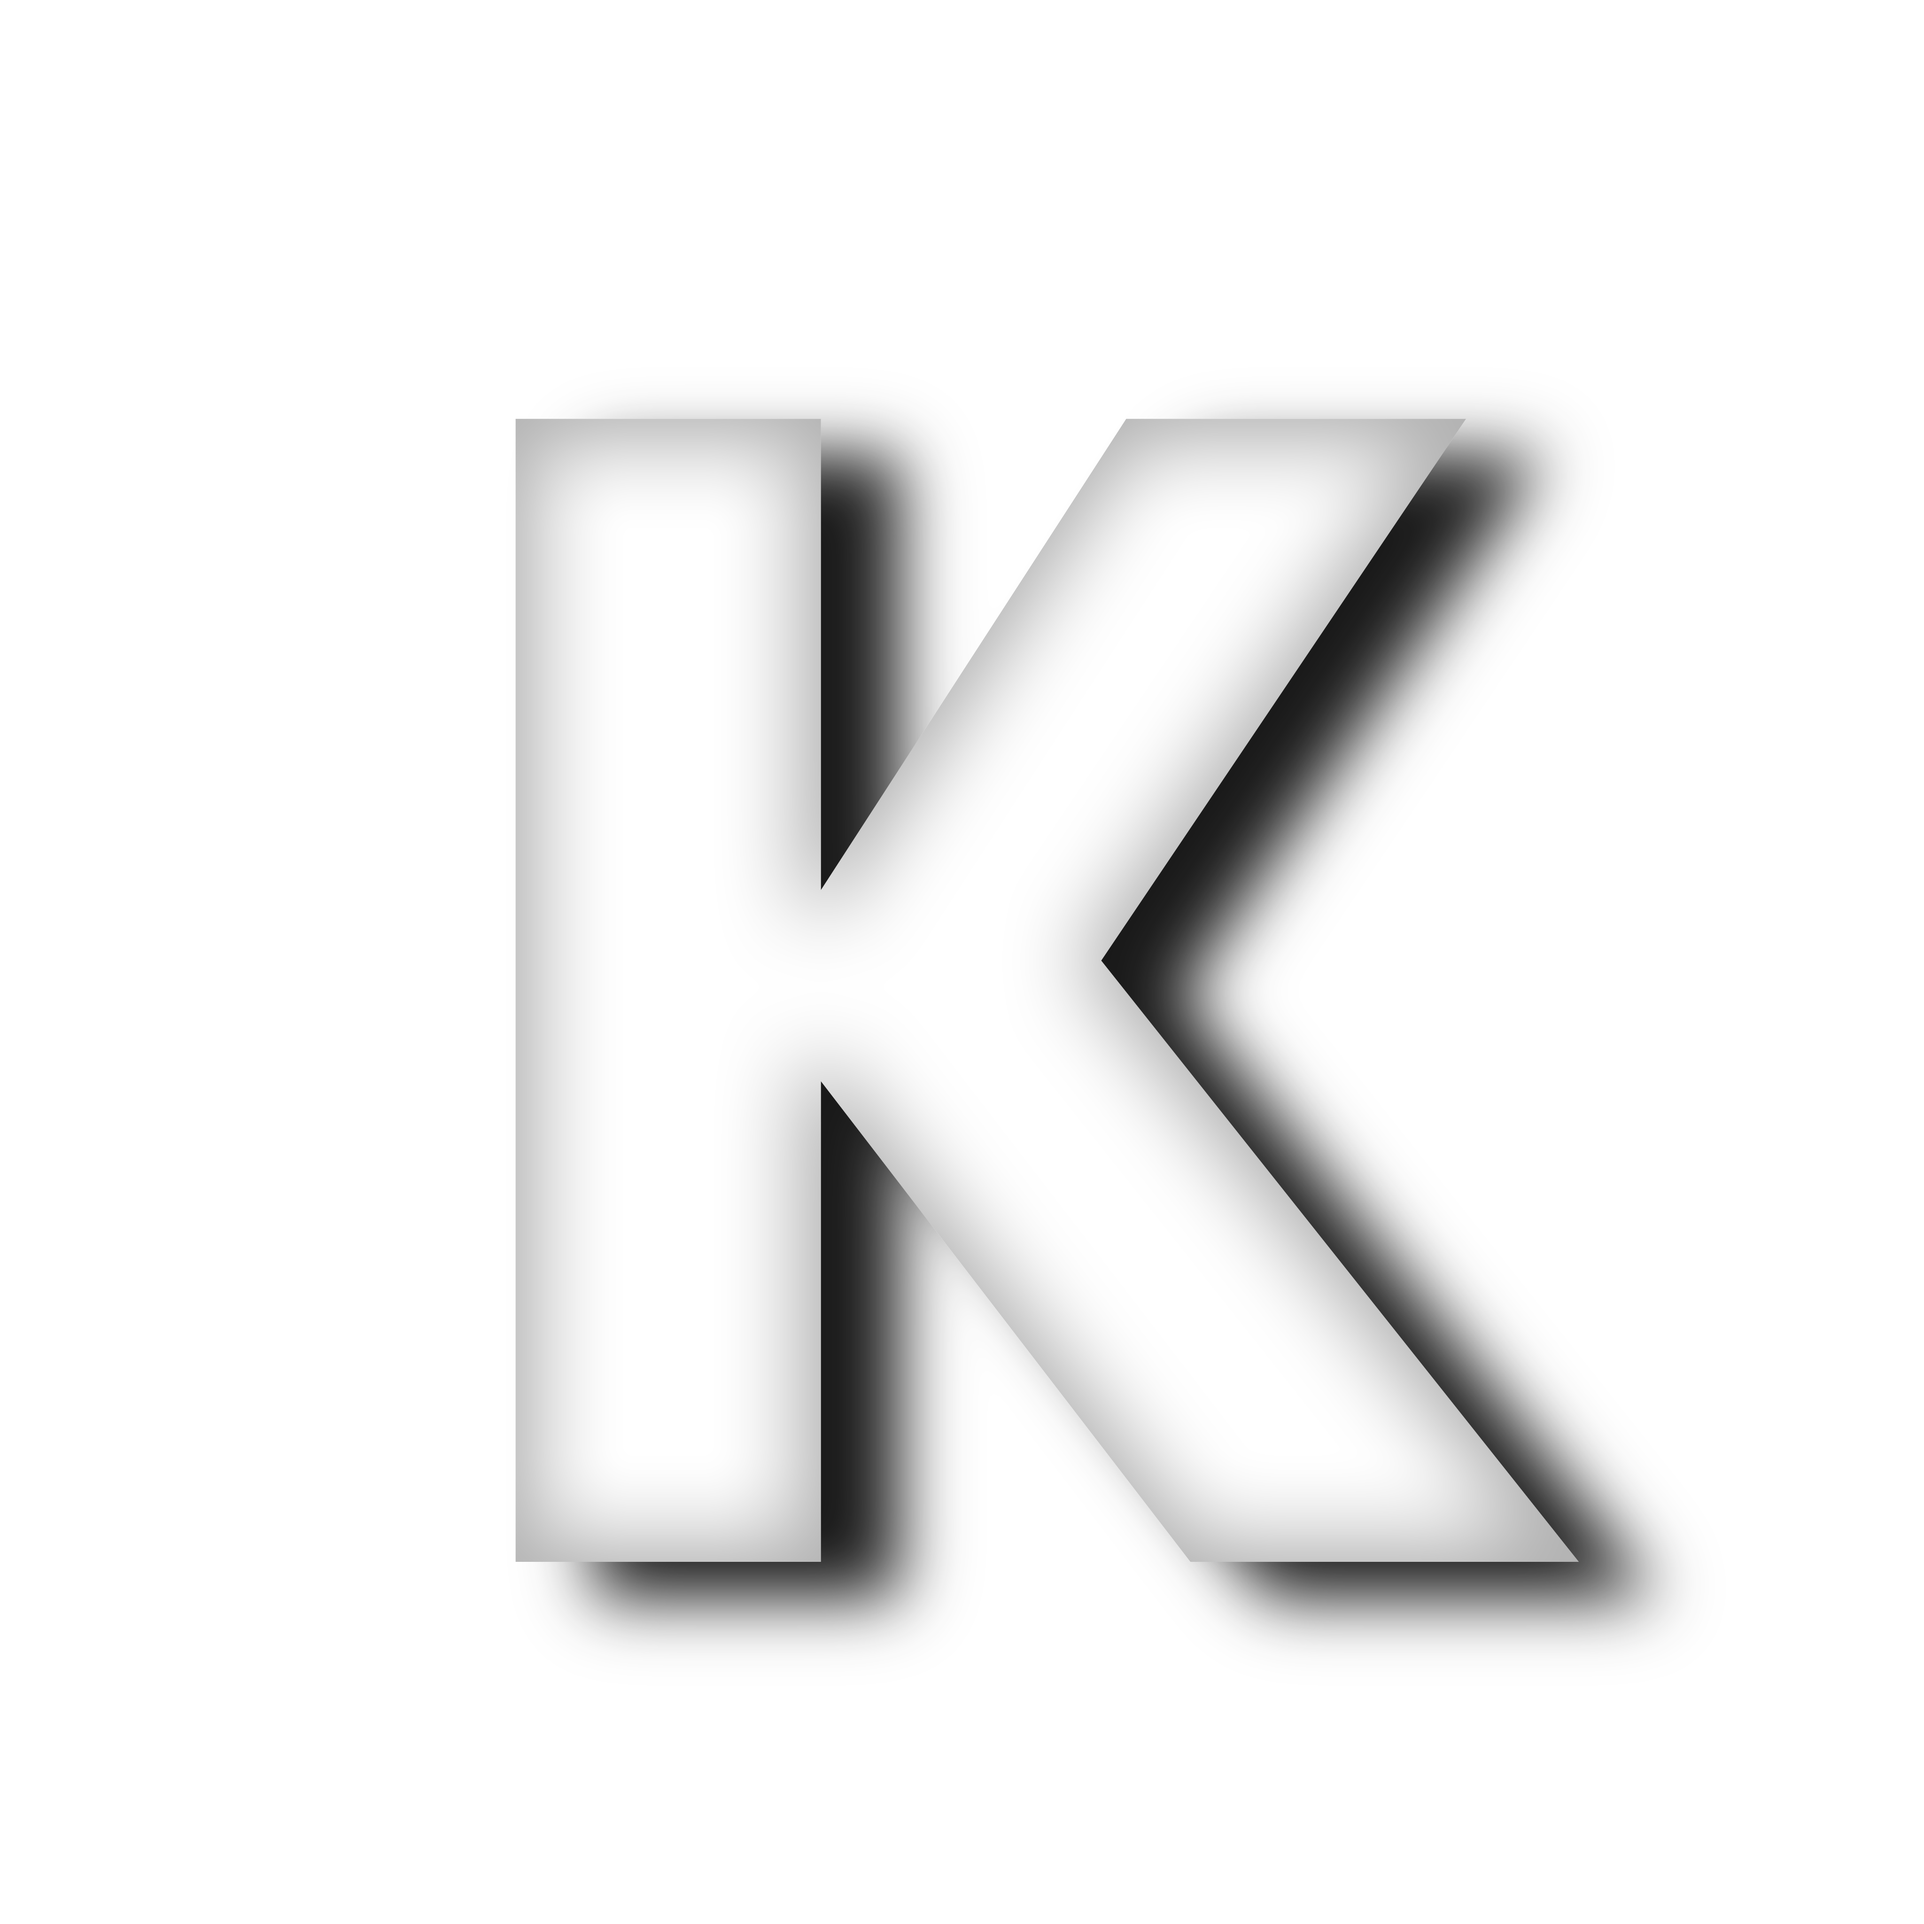
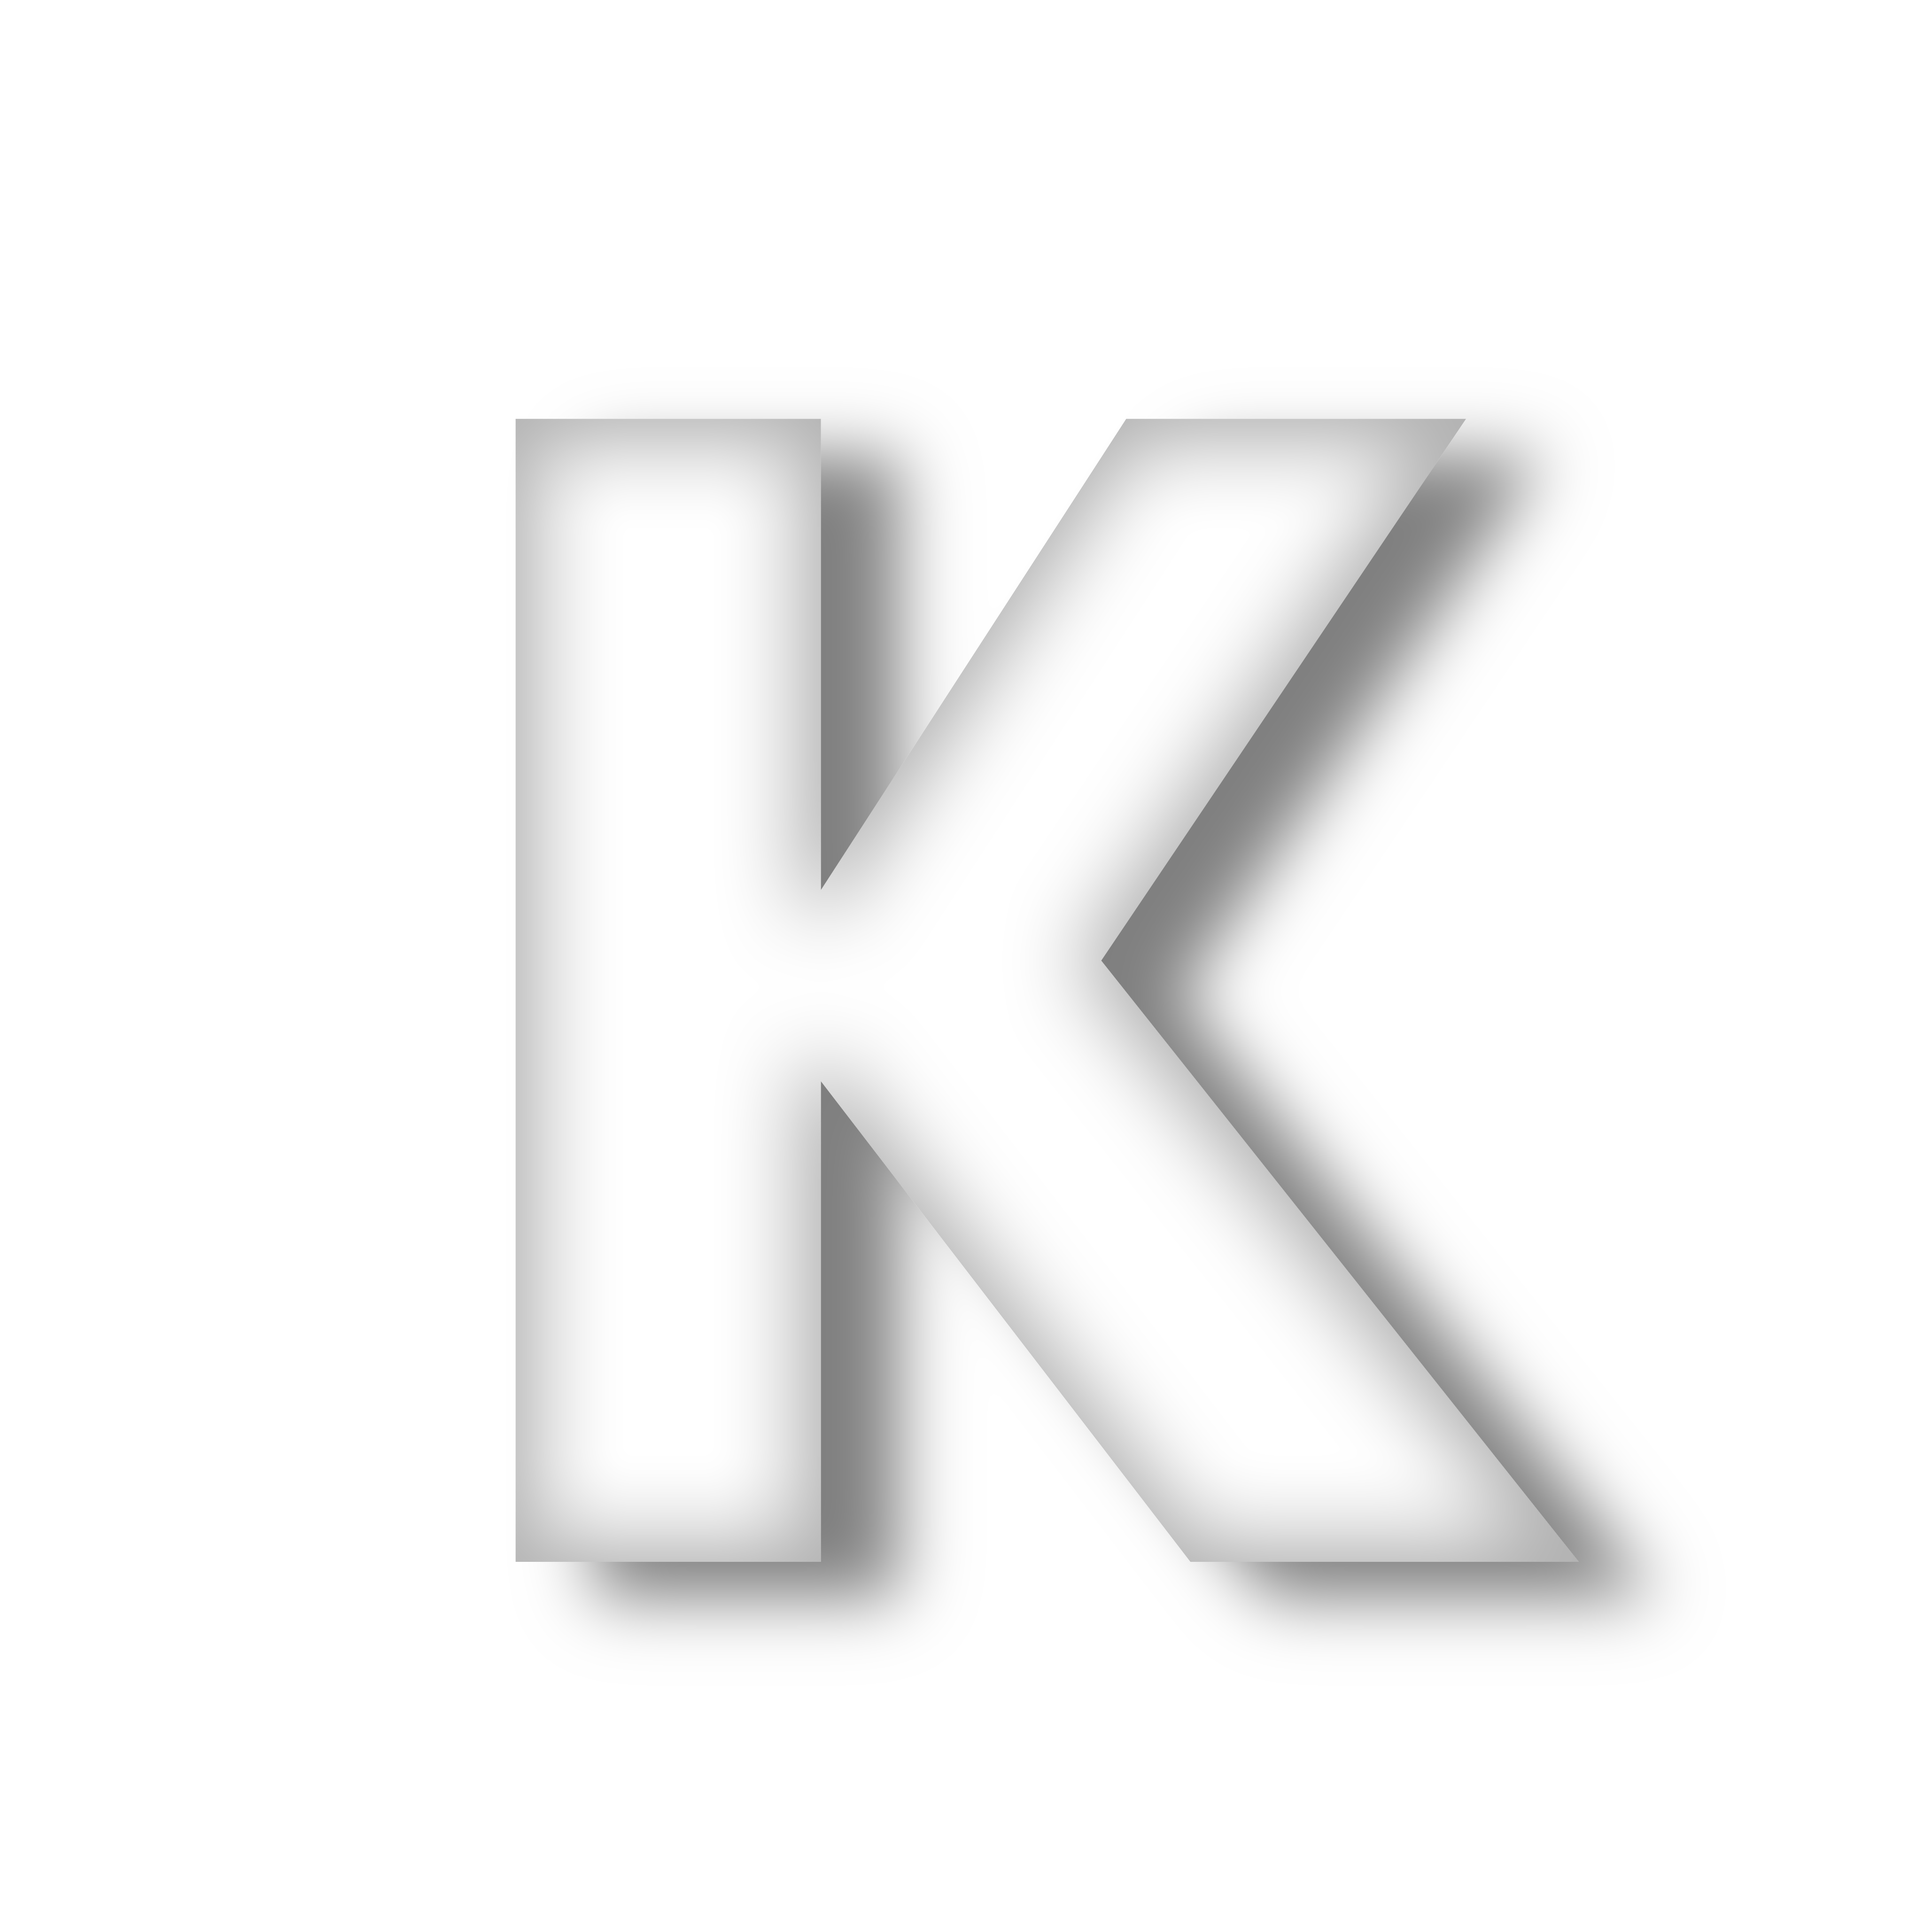
Changed & added Watermark

Changed region(s): [[0.5625, 0.2188, 0.875, 0.8438], [0.2812, 0.5625, 0.5, 0.8438], [0.4062, 0.2188, 0.5, 0.4688]]

diff --git a/koks/hud/Watermark.java b/koks/hud/Watermark.java
@@ -29,7 +29,9 @@ public class Watermark {
 
     private final Minecraft mc = Minecraft.getMinecraft();
     private final FontRenderer fr = Minecraft.getMinecraft().fontRendererObj;
+    private final ResourceLocation resourceLocation = new ResourceLocation("client/generals/watermark.png");
 
+    private final RenderUtils renderUtils = new RenderUtils();
     private ColorUtil colorUtil;
     private float animationX;
     private boolean reverse;
@@ -39,7 +41,7 @@ public class Watermark {
 
         if (Koks.getKoks().moduleManager.getModule(HUD.class).isToggled()) {
 
-            if (Koks.getKoks().moduleManager.getModule(HUD.class).marioKART.isToggled()) {
+            if (Koks.getKoks().moduleManager.getModule(HUD.class).watermarkStyle.getSelectedMode().equals("Mario Kart")) {
                 String name = Koks.getKoks().CLIENT_NAME;
                 DateFormat dateFormat = new SimpleDateFormat("HH:mm");
                 String time = dateFormat.format(Calendar.getInstance().getTime());
@@ -57,13 +59,25 @@ public class Watermark {
                     if (animationX < -fr.getStringWidth(render))
                         reverse = false;
                 }
-            } else {
+            } else if (Koks.getKoks().moduleManager.getModule(HUD.class).watermarkStyle.getSelectedMode().equals("Simple")) {
                 String name = Koks.getKoks().CLIENT_NAME;
                 DateFormat dateFormat = new SimpleDateFormat("HH:mm");
                 String time = dateFormat.format(Calendar.getInstance().getTime());
 
                 String render = name + " §7(" + time + ")";
                 fr.drawStringWithShadow(render, 82 / 2 - fr.getStringWidth(render) / 2, 8, Koks.getKoks().client_color.getRGB());
+            } else if (Koks.getKoks().moduleManager.getModule(HUD.class).watermarkStyle.getSelectedMode().equals("Custom with Shadow")) {
+
+                GL11.glPushMatrix();
+                GlStateManager.disableAlpha();
+                GlStateManager.enableBlend();
+                GL11.glEnable(GL11.GL_BLEND);
+                GL11.glColor4f(1, 1, 1, 1);
+                renderUtils.drawImage(resourceLocation, -3, -5, 80, 80, false);
+                GL11.glDisable(GL11.GL_BLEND);
+                GlStateManager.enableAlpha();
+                GlStateManager.disableBlend();
+                GL11.glPopMatrix();
             }
         }
     }

diff --git a/koks/modules/impl/utilities/HUD.java b/koks/modules/impl/utilities/HUD.java
@@ -26,7 +26,7 @@ public class HUD extends Module {
     private BooleanValue<Boolean> tabGUICenteredString = new BooleanValue<>("Centered String", true, this);
 
     private BooleanValue<Boolean> shadowArrayList = new BooleanValue<>("Shadow", true, this);
-    public BooleanValue<Boolean> marioKART = new BooleanValue<>("Mario Karting", true, this);
+    public ModeValue<String> watermarkStyle = new ModeValue<>("Watermark Style", "Simple", new String[]{"Simple", "Custom with Shadow", "Mario Kart"}, this);
     public BooleanValue<Boolean> customCrossHair = new BooleanValue<>("CrossHair", true, this);
 
     public ModeValue<String> tabGuiSettings = new ModeValue<>("TabGui Settings", new BooleanValue[]{tabGUI, tabGUI_shadow, tabGUI_client_color, tabGUICenteredString}, this);
@@ -36,7 +36,7 @@ public class HUD extends Module {
         super("HUD", Category.UTILITIES);
         addValue(tabGuiSettings);
         addValue(arrayListSettings);
-        addValue(marioKART);
+        addValue(watermarkStyle);
         addValue(customCrossHair);
         this.setToggled(true);
     }
@@ -57,8 +57,12 @@ public class HUD extends Module {
 
             moduleList.drawList(shadowArrayList.isToggled());
             watermark.drawWatermark();
-            if (Koks.getKoks().tabGUI != null && tabGUI.isToggled())
-                Koks.getKoks().tabGUI.drawScreen(2, 20, this.tabGUI_shadow.isToggled(), tabGUI_client_color.isToggled(), tabGUICenteredString.isToggled());
+            if (Koks.getKoks().tabGUI != null && tabGUI.isToggled()) {
+                if (watermarkStyle.getSelectedMode().equals("Custom with Shadow"))
+                    Koks.getKoks().tabGUI.drawScreen(2, 70, this.tabGUI_shadow.isToggled(), tabGUI_client_color.isToggled(), tabGUICenteredString.isToggled());
+                else
+                    Koks.getKoks().tabGUI.drawScreen(2, 20, this.tabGUI_shadow.isToggled(), tabGUI_client_color.isToggled(), tabGUICenteredString.isToggled());
+            }
             if (customCrossHair.isToggled())
                 new CrossHair().drawCrosshair();
         }

diff --git a/koks/modules/impl/combat/KillAura.java b/koks/modules/impl/combat/KillAura.java
@@ -295,6 +295,8 @@ public class KillAura extends Module {
             return false;
         if (entity.isDead)
             return false;
+        if (!mc.thePlayer.canEntityBeSeen(entity))
+            return false;
         if (!player.isToggled() && entity instanceof EntityPlayer)
             return false;
         if (!animals.isToggled() && entity instanceof EntityAnimal)

diff --git a/koks/modules/impl/world/ScaffoldWalk.java b/koks/modules/impl/world/ScaffoldWalk.java
@@ -129,7 +129,7 @@ public class ScaffoldWalk extends Module {
             } else {
                 shouldBuildDown = false;
             }
-            if (!shouldBuildDown && safeWalk.isToggled()) {
+            if (safeWalk.isToggled()) {
                 ((SafeWalkEvent) event).setSafe(true);
             } else {
 
